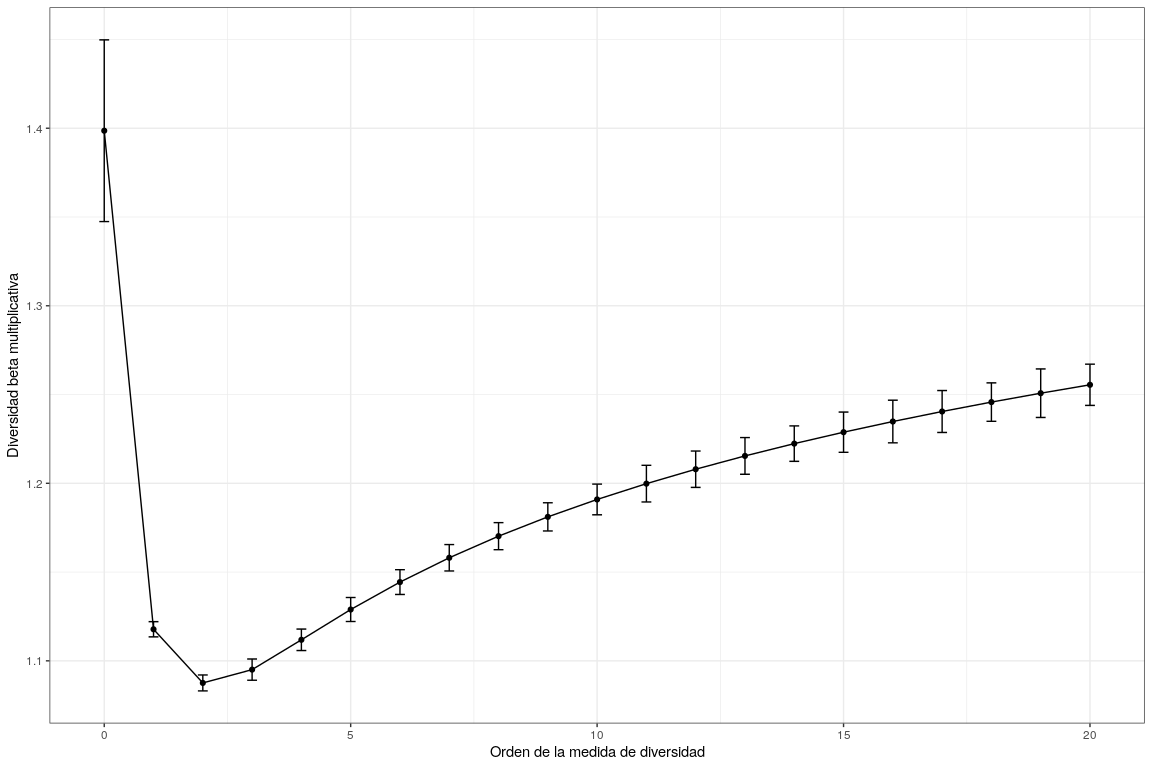
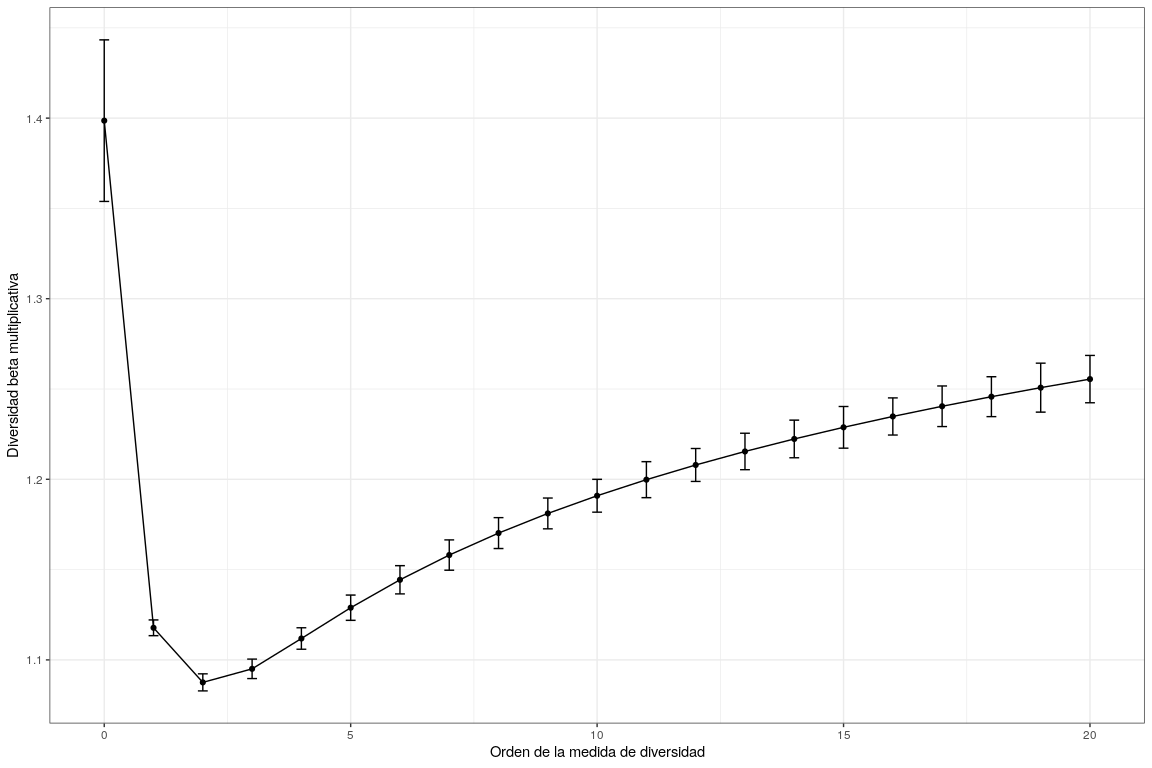
Beta diversity script updated

diff --git a/di_2_analisis_de_diversidad_diversidad_beta.md b/di_2_analisis_de_diversidad_diversidad_beta.md
@@ -153,16 +153,16 @@ beta_multiplicativa
     ## # A tibble: 21 x 3
     ##    orden  beta   error
     ##    <int> <dbl>   <dbl>
-    ##  1     0  1.40 0.0512 
-    ##  2     1  1.12 0.00428
-    ##  3     2  1.09 0.00450
-    ##  4     3  1.10 0.00598
-    ##  5     4  1.11 0.00604
-    ##  6     5  1.13 0.00676
-    ##  7     6  1.14 0.00698
-    ##  8     7  1.16 0.00744
-    ##  9     8  1.17 0.00763
-    ## 10     9  1.18 0.00794
+    ##  1     0  1.40 0.0447 
+    ##  2     1  1.12 0.00436
+    ##  3     2  1.09 0.00473
+    ##  4     3  1.10 0.00539
+    ##  5     4  1.11 0.00594
+    ##  6     5  1.13 0.00699
+    ##  7     6  1.14 0.00782
+    ##  8     7  1.16 0.00839
+    ##  9     8  1.17 0.00856
+    ## 10     9  1.18 0.00853
     ## # … with 11 more rows
     ## 
     ## $grafico
@@ -175,10 +175,10 @@ importancia a la equidad que a la riqueza. En los datos de mi familia, y
 en general en cualquier conjunto de datos, esto puede atribuirse a la
 gran similaridad global entre sitios; en el contexto actual, con
 composiciones de especies autocorrelacionadas espacialmente, el
-reemplazo es bajo.
+reemplazo es
+bajo.
 
-SCBD (species contribution to beta diversity) y LCBD (local
-contribution…)
+### Contribución de especies a la diversidad beta (SCBD, *species contribution to beta diversity*) y contribución local a la diversidad beta (LCBD *local contribution to beta diversity*)
 
 ``` r
 determinar_contrib_local_y_especie(
@@ -229,27 +229,25 @@ determinar_contrib_local_y_especie(
     ## 
     ## $p.LCBD
     ##      1      2      3      4      5      6      7      8      9     10 
-    ## 0.6550 0.9639 0.1316 0.0772 0.0184 0.2560 0.5061 0.6913 0.2339 0.3319 
+    ## 0.6615 0.9624 0.1237 0.0777 0.0210 0.2534 0.5021 0.6828 0.2399 0.3216 
     ##     11     12     13     14     15     16     17     18     19     20 
-    ## 0.9950 0.9926 0.1492 0.1004 0.0745 0.9482 0.6804 0.0151 0.1304 0.4816 
+    ## 0.9958 0.9925 0.1511 0.1014 0.0834 0.9492 0.6708 0.0166 0.1280 0.4881 
     ##     21     22     23     24     25     26     27     28     29     30 
-    ## 0.8045 0.6319 0.3222 0.3568 0.5647 0.3925 0.9590 0.9528 0.8654 0.7040 
+    ## 0.8187 0.6296 0.3302 0.3547 0.5686 0.3932 0.9635 0.9495 0.8678 0.6953 
     ##     31     32     33     34     35     36     37     38     39     40 
-    ## 0.3889 0.7715 0.5300 0.6034 0.3139 0.3729 0.7580 0.9764 0.7924 0.3795 
+    ## 0.3782 0.7707 0.5218 0.6051 0.3020 0.3823 0.7570 0.9804 0.7913 0.3817 
     ##     41     42     43     44     45     46     47     48     49     50 
-    ## 0.1366 0.5754 0.6686 0.7460 0.2431 0.0653 0.2360 0.4014 0.2511 0.7092 
+    ## 0.1377 0.5757 0.6766 0.7524 0.2478 0.0665 0.2333 0.4026 0.2523 0.7088 
     ## 
     ## $p.adj
-    ##      1      2      3      4      5      6      7      8      9     10 
-    ## 1.0000 1.0000 1.0000 1.0000 0.9016 1.0000 1.0000 1.0000 1.0000 1.0000 
-    ##     11     12     13     14     15     16     17     18     19     20 
-    ## 1.0000 1.0000 1.0000 1.0000 1.0000 1.0000 1.0000 0.7550 1.0000 1.0000 
-    ##     21     22     23     24     25     26     27     28     29     30 
-    ## 1.0000 1.0000 1.0000 1.0000 1.0000 1.0000 1.0000 1.0000 1.0000 1.0000 
-    ##     31     32     33     34     35     36     37     38     39     40 
-    ## 1.0000 1.0000 1.0000 1.0000 1.0000 1.0000 1.0000 1.0000 1.0000 1.0000 
-    ##     41     42     43     44     45     46     47     48     49     50 
-    ## 1.0000 1.0000 1.0000 1.0000 1.0000 1.0000 1.0000 1.0000 1.0000 1.0000 
+    ##    1    2    3    4    5    6    7    8    9   10   11   12   13   14   15 
+    ## 1.00 1.00 1.00 1.00 1.00 1.00 1.00 1.00 1.00 1.00 1.00 1.00 1.00 1.00 1.00 
+    ##   16   17   18   19   20   21   22   23   24   25   26   27   28   29   30 
+    ## 1.00 1.00 0.83 1.00 1.00 1.00 1.00 1.00 1.00 1.00 1.00 1.00 1.00 1.00 1.00 
+    ##   31   32   33   34   35   36   37   38   39   40   41   42   43   44   45 
+    ## 1.00 1.00 1.00 1.00 1.00 1.00 1.00 1.00 1.00 1.00 1.00 1.00 1.00 1.00 1.00 
+    ##   46   47   48   49   50 
+    ## 1.00 1.00 1.00 1.00 1.00 
     ## 
     ## $method
     ## [1] "hellinger" NA         
@@ -273,16 +271,14 @@ determinar_contrib_local_y_especie(
     ## [1] "5"  "18"
     ## 
     ## $valor_de_ajustado_lcbd
-    ##      1      2      3      4      5      6      7      8      9     10 
-    ## 1.0000 1.0000 1.0000 1.0000 0.9016 1.0000 1.0000 1.0000 1.0000 1.0000 
-    ##     11     12     13     14     15     16     17     18     19     20 
-    ## 1.0000 1.0000 1.0000 1.0000 1.0000 1.0000 1.0000 0.7550 1.0000 1.0000 
-    ##     21     22     23     24     25     26     27     28     29     30 
-    ## 1.0000 1.0000 1.0000 1.0000 1.0000 1.0000 1.0000 1.0000 1.0000 1.0000 
-    ##     31     32     33     34     35     36     37     38     39     40 
-    ## 1.0000 1.0000 1.0000 1.0000 1.0000 1.0000 1.0000 1.0000 1.0000 1.0000 
-    ##     41     42     43     44     45     46     47     48     49     50 
-    ## 1.0000 1.0000 1.0000 1.0000 1.0000 1.0000 1.0000 1.0000 1.0000 1.0000 
+    ##    1    2    3    4    5    6    7    8    9   10   11   12   13   14   15 
+    ## 1.00 1.00 1.00 1.00 1.00 1.00 1.00 1.00 1.00 1.00 1.00 1.00 1.00 1.00 1.00 
+    ##   16   17   18   19   20   21   22   23   24   25   26   27   28   29   30 
+    ## 1.00 1.00 0.83 1.00 1.00 1.00 1.00 1.00 1.00 1.00 1.00 1.00 1.00 1.00 1.00 
+    ##   31   32   33   34   35   36   37   38   39   40   41   42   43   44   45 
+    ## 1.00 1.00 1.00 1.00 1.00 1.00 1.00 1.00 1.00 1.00 1.00 1.00 1.00 1.00 1.00 
+    ##   46   47   48   49   50 
+    ## 1.00 1.00 1.00 1.00 1.00 
     ## 
     ## $sitios_contribuyen_betadiv_ajustado
     ## character(0)
@@ -299,7 +295,14 @@ mapa_cuadros <- mapView(
     lng = -79.85136,
     lat = 9.15097,
     zoom = 15)
+```
+
+Utilizar el mapa de cuadros para identificar aquellos que contribuyen
+más a la diversidad beta. Explorar mapas de variables ambientales
+(aec\_6).
+
+``` r
 mapa_cuadros
 ```
 
-![](di_2_analisis_de_diversidad_diversidad_beta_files/figure-gfm/unnamed-chunk-6-1.png)<!-- -->
+![](di_2_analisis_de_diversidad_diversidad_beta_files/figure-gfm/unnamed-chunk-7-1.png)<!-- -->
